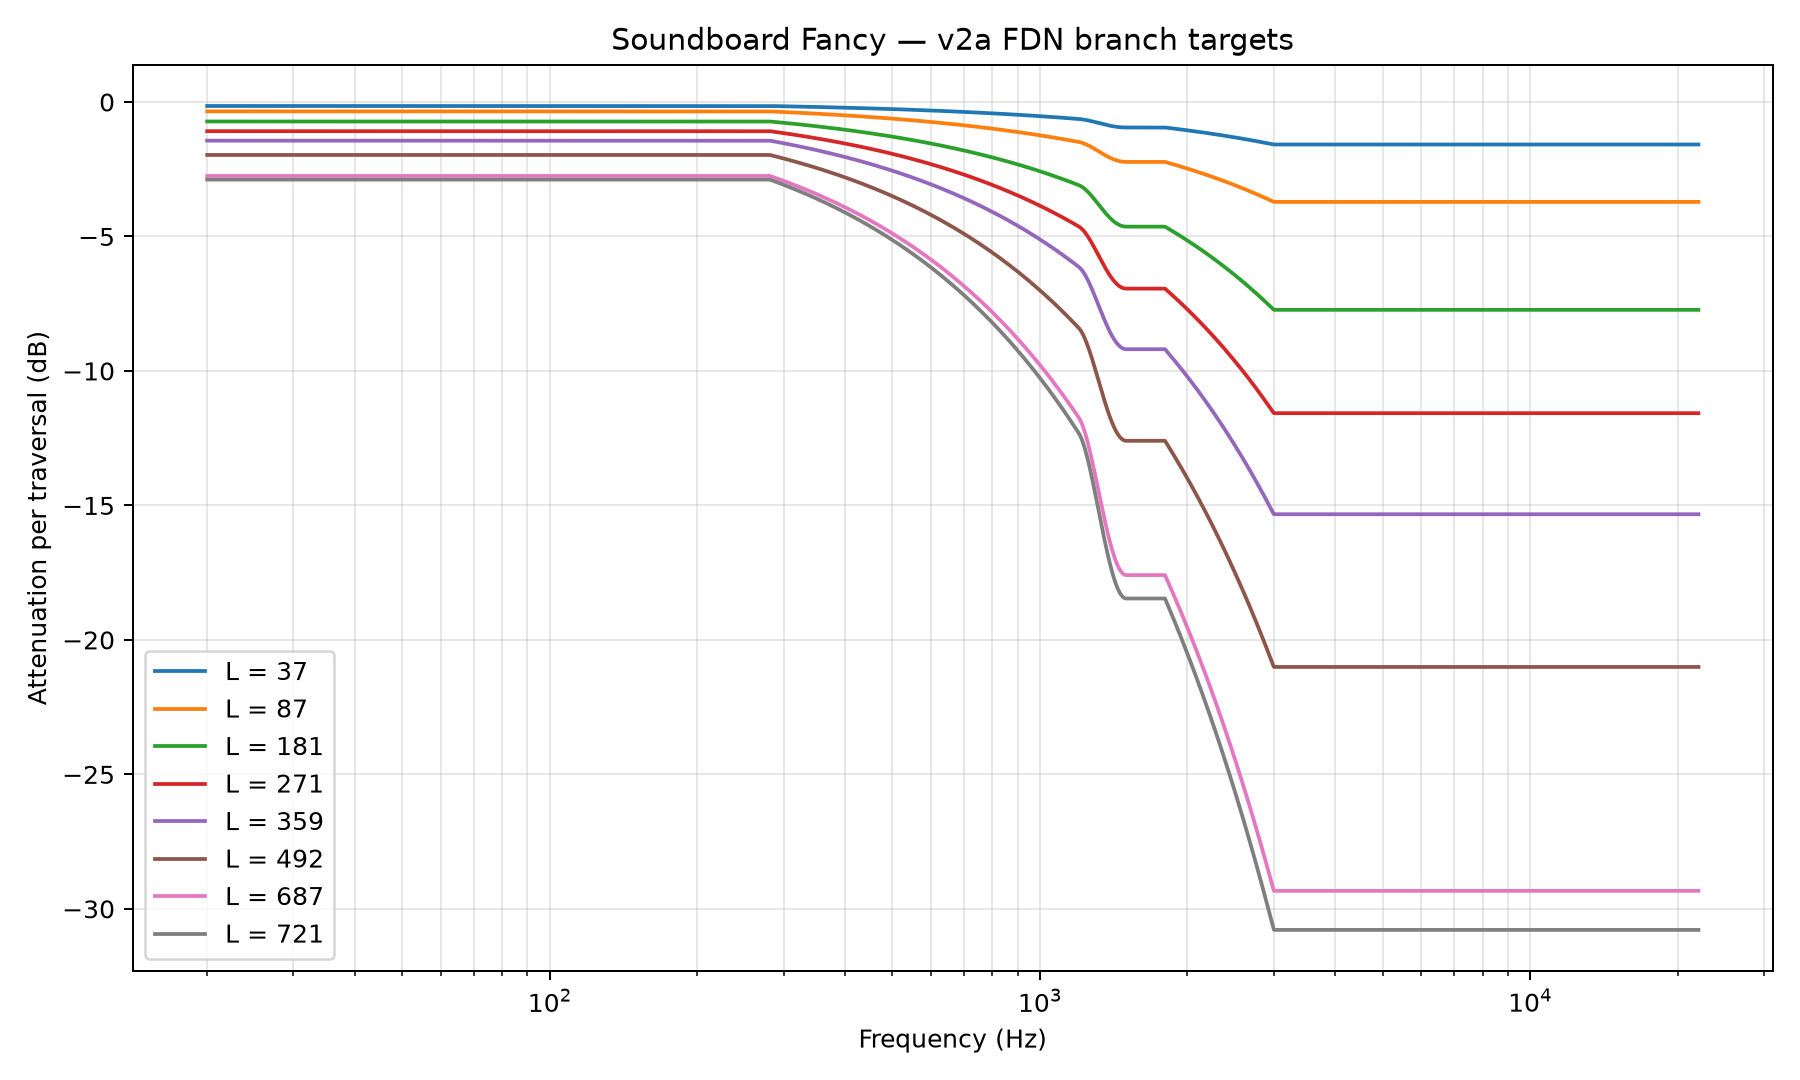
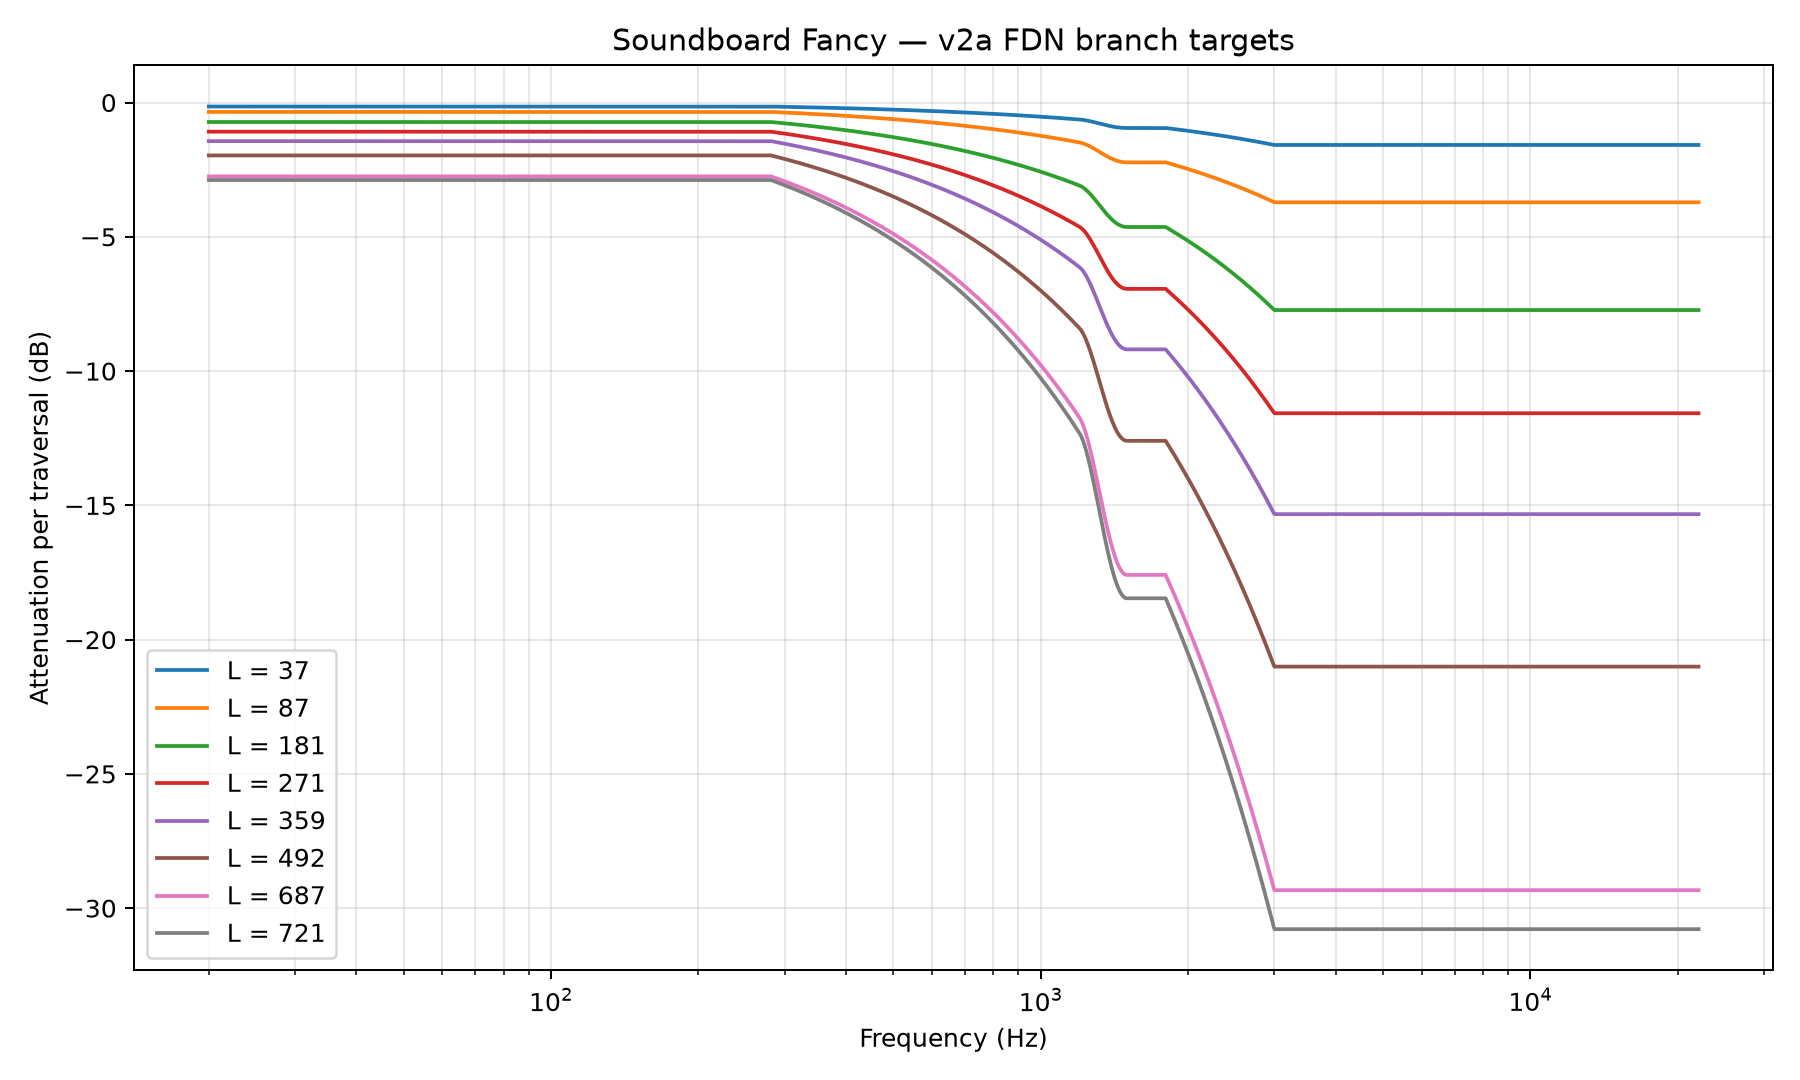
接入Soundboard-fancy的SOS阻尼模型，试听出和原来有区别但主观差异不明显，我确实是有些沮丧啊。看来还是道阻且长。

diff --git a/core/bBpiano Lite/core/bbpl/piano/soundboard_model.hpp b/core/bBpiano Lite/core/bbpl/piano/soundboard_model.hpp
@@ -79,6 +79,90 @@ class SoundboardModel {
 
     static constexpr std::size_t kLossSectionCount = 8;
 
+    // b0, b1, b2, a1, a2; sections 6 and 7 are identity.
+    static constexpr float kV2aLossSOS[kFDNSize][kLossSectionCount][5] = {
+        { // L=37
+            {0.999671996f, -1.9230001f, 0.925071716f, -1.92298508f, 0.924758732f},
+            {0.998765051f, -1.86752486f, 0.878230453f, -1.86752486f, 0.876995504f},
+            {0.99847126f, -1.8586024f, 0.901458383f, -1.8586024f, 0.899929643f},
+            {0.991085052f, -1.39131153f, 0.501467586f, -1.39131153f, 0.492552578f},
+            {0.978546083f, -1.41130579f, 0.590366721f, -1.41130579f, 0.568912804f},
+            {0.872798622f, -0.910602748f, 0.323832273f, -1.11428607f, 0.400314122f},
+            {1.0f, 0.0f, 0.0f, 0.0f, 0.0f},
+            {1.0f, 0.0f, 0.0f, 0.0f, 0.0f},
+        },
+        { // L=87
+            {0.999228895f, -1.92257845f, 0.925072789f, -1.92254305f, 0.924337029f},
+            {0.997098446f, -1.86594129f, 0.878305376f, -1.86594129f, 0.875403821f},
+            {0.996408463f, -1.85663414f, 0.901509106f, -1.85663414f, 0.897917569f},
+            {0.979162037f, -1.38272929f, 0.504183888f, -1.38272929f, 0.483345896f},
+            {0.950236976f, -1.38932276f, 0.594237745f, -1.38932276f, 0.544474721f},
+            {0.726279378f, -0.721193254f, 0.255368829f, -1.15987778f, 0.42033264f},
+            {1.0f, 0.0f, 0.0f, 0.0f, 0.0f},
+            {1.0f, 0.0f, 0.0f, 0.0f, 0.0f},
+        },
+        { // L=181
+            {0.998396099f, -1.92177379f, 0.925063133f, -1.92170024f, 0.923532784f},
+            {0.993971407f, -1.86291206f, 0.878387928f, -1.86291206f, 0.872359335f},
+            {0.992537796f, -1.85283196f, 0.901493132f, -1.85283196f, 0.894030929f},
+            {0.957119823f, -1.3663224f, 0.508625329f, -1.3663224f, 0.465745181f},
+            {0.898877144f, -1.34566164f, 0.59706068f, -1.34566164f, 0.495937824f},
+            {0.514436007f, -0.459547222f, 0.162738726f, -1.24048316f, 0.458110601f},
+            {1.0f, 0.0f, 0.0f, 0.0f, 0.0f},
+            {1.0f, 0.0f, 0.0f, 0.0f, 0.0f},
+        },
+        { // L=271
+            {0.997598827f, -1.92098844f, 0.925039589f, -1.92087829f, 0.922748625f},
+            {0.990983486f, -1.85994732f, 0.878396034f, -1.85994732f, 0.86937952f},
+            {0.988836706f, -1.84906387f, 0.901342332f, -1.84906387f, 0.890179038f},
+            {0.936451316f, -1.35028493f, 0.512089312f, -1.35028493f, 0.448540628f},
+            {0.851620913f, -1.30106664f, 0.594741702f, -1.30106664f, 0.446362644f},
+            {0.370265663f, -0.293172449f, 0.105399951f, -1.31154287f, 0.494036078f},
+            {1.0f, 0.0f, 0.0f, 0.0f, 0.0f},
+            {1.0f, 0.0f, 0.0f, 0.0f, 0.0f},
+        },
+        { // L=359
+            {0.996819139f, -1.92020607f, 0.925003052f, -1.92006016f, 0.921968162f},
+            {0.988066375f, -1.8569864f, 0.878337145f, -1.8569864f, 0.86640352f},
+            {0.985218227f, -1.84525514f, 0.901067317f, -1.84525514f, 0.886285543f},
+            {0.916632771f, -1.33429813f, 0.514757812f, -1.33429813f, 0.431390613f},
+            {0.806905866f, -1.25493884f, 0.588177621f, -1.25493884f, 0.395083487f},
+            {0.268957734f, -0.184804916f, 0.0689346939f, -1.37544525f, 0.528532743f},
+            {1.0f, 0.0f, 0.0f, 0.0f, 0.0f},
+            {1.0f, 0.0f, 0.0f, 0.0f, 0.0f},
+        },
+        { // L=492
+            {0.995639801f, -1.9189961f, 0.924922526f, -1.91879606f, 0.92076236f},
+            {0.983662665f, -1.8523922f, 0.878123403f, -1.8523922f, 0.861786067f},
+            {0.979740918f, -1.83925712f, 0.900413334f, -1.83925712f, 0.880154252f},
+            {0.887370408f, -1.30957675f, 0.517499983f, -1.30957675f, 0.404870361f},
+            {0.74161154f, -1.18087769f, 0.57114017f, -1.18087769f, 0.31275171f},
+            {0.166695535f, -0.0866453573f, 0.0366302505f, -1.46212125f, 0.578801632f},
+            {1.0f, 0.0f, 0.0f, 0.0f, 0.0f},
+            {1.0f, 0.0f, 0.0f, 0.0f, 0.0f},
+        },
+        { // L=687
+            {0.993906975f, -1.91716051f, 0.924749255f, -1.91688085f, 0.918935895f},
+            {0.977208316f, -1.8453902f, 0.877540231f, -1.8453902f, 0.854748547f},
+            {0.971665621f, -1.82991409f, 0.898937821f, -1.82991409f, 0.870603442f},
+            {0.84585768f, -1.27216077f, 0.518874049f, -1.27216077f, 0.364731729f},
+            {0.649965584f, -1.06448197f, 0.533392012f, -1.06448197f, 0.183357567f},
+            {0.0837854221f, -0.0216868259f, 0.0153697049f, -1.56955647f, 0.647024751f},
+            {1.0f, 0.0f, 0.0f, 0.0f, 0.0f},
+            {1.0f, 0.0f, 0.0f, 0.0f, 0.0f},
+        },
+        { // L=721
+            {0.993604243f, -1.9168328f, 0.9247123f, -1.91653931f, 0.918610096f},
+            {0.976082265f, -1.84413612f, 0.877405882f, -1.84413612f, 0.853488147f},
+            {0.970249474f, -1.8282156f, 0.898617744f, -1.8282156f, 0.868867218f},
+            {0.838778138f, -1.26550019f, 0.518808365f, -1.26550019f, 0.357586473f},
+            {0.634439945f, -1.0434556f, 0.525543094f, -1.0434556f, 0.159983069f},
+            {0.0744585693f, -0.0157851242f, 0.013367475f, -1.58611131f, 0.658152282f},
+            {1.0f, 0.0f, 0.0f, 0.0f, 0.0f},
+            {1.0f, 0.0f, 0.0f, 0.0f, 0.0f},
+        },
+    };
+
 
     // ================================================================
     // 单一二阶filter的公式：
@@ -444,90 +528,23 @@ private:
     inline void initialize_losses() noexcept {
 
         // ============================================================
-        // Bank calibrates these filters from measured soundboard
-        // decay times in octave bands.
-        //
-        // The exact numerical coefficients are not published.
-        //
-        // For this provisional implementation we reproduce the same
-        // structure and use a physically meaningful decay mapping:
-        //
-        // gain =
-        //
-        //       10 ^ [ -3 * delay_time / T60 ]
-        //
-        //
-        // so that repeated circulation decays by 60 dB in T60.
-        //
-        // The one-pole term adds frequency-dependent damping.
+        // Frequency-dependent SOS attenuation bank from the offline
+        // soundboard-fancy experiment (Fs = 44100 Hz).
+        // Each FDN branch uses fixed coefficients for its delay length L_i.
+        // Target: |H_i(f)| = exp(-alpha_target(f) * L_i / Fs).
         // ============================================================
 
-        constexpr double target_t60 = 0.34;
-
-        // Keep this fairly weak.
-        //
-        // Too high a value makes the piano sound artificially dark.
-        constexpr float loss_pole = 0.075f;
-
-
         for (std::size_t i = 0; i < kFDNSize; ++i) {
-
-            const double delay_seconds =
-                static_cast<double>(kDelayLengths[i])
-                / sample_rate_;
-
-            const double gain =
-                std::pow(
-                    10.0,
-                    -3.0 *
-                    delay_seconds /
-                    target_t60
-                );
-
-
-            // H(z) = 1
-            //
-            // b0 = 1
-            // b1 = b2 = a1 = a2 = 0
-
-            for (auto& section : loss_filters_[i].sections) {
-                section.b0 = 1.0f;
-                section.b1 = 0.0f;
-                section.b2 = 0.0f;
-
-                section.a1 = 0.0f;
-                section.a2 = 0.0f;
-
+            for (std::size_t j = 0; j < kLossSectionCount; ++j) {
+                auto& section = loss_filters_[i].sections[j];
+                section.b0 = kV2aLossSOS[i][j][0];
+                section.b1 = kV2aLossSOS[i][j][1];
+                section.b2 = kV2aLossSOS[i][j][2];
+                section.a1 = kV2aLossSOS[i][j][3];
+                section.a2 = kV2aLossSOS[i][j][4];
                 section.s1 = 0.0f;
                 section.s2 = 0.0f;
             }
-
-
-            // 让二阶filter塌缩成一阶filter，以此先证明两者可在此参数设置下等价:
-            //
-            //            g (1 - a)
-            // H(z) = ----------------
-            //            1 - a z^-1
-            //
-            // 通过进行以下的参数代入：
-            // b0 = g (1 - a)
-            // b1 = 0
-            // b2 = 0
-            // a1 = -a
-            // a2 = 0
-
-            auto& section =
-                loss_filters_[i].sections[0];
-
-            section.b0 =
-                static_cast<float>(gain)
-                * (1.0f - loss_pole);
-
-            section.b1 = 0.0f;
-            section.b2 = 0.0f;
-
-            section.a1 = -loss_pole;
-            section.a2 = 0.0f;
         }
     }
 
